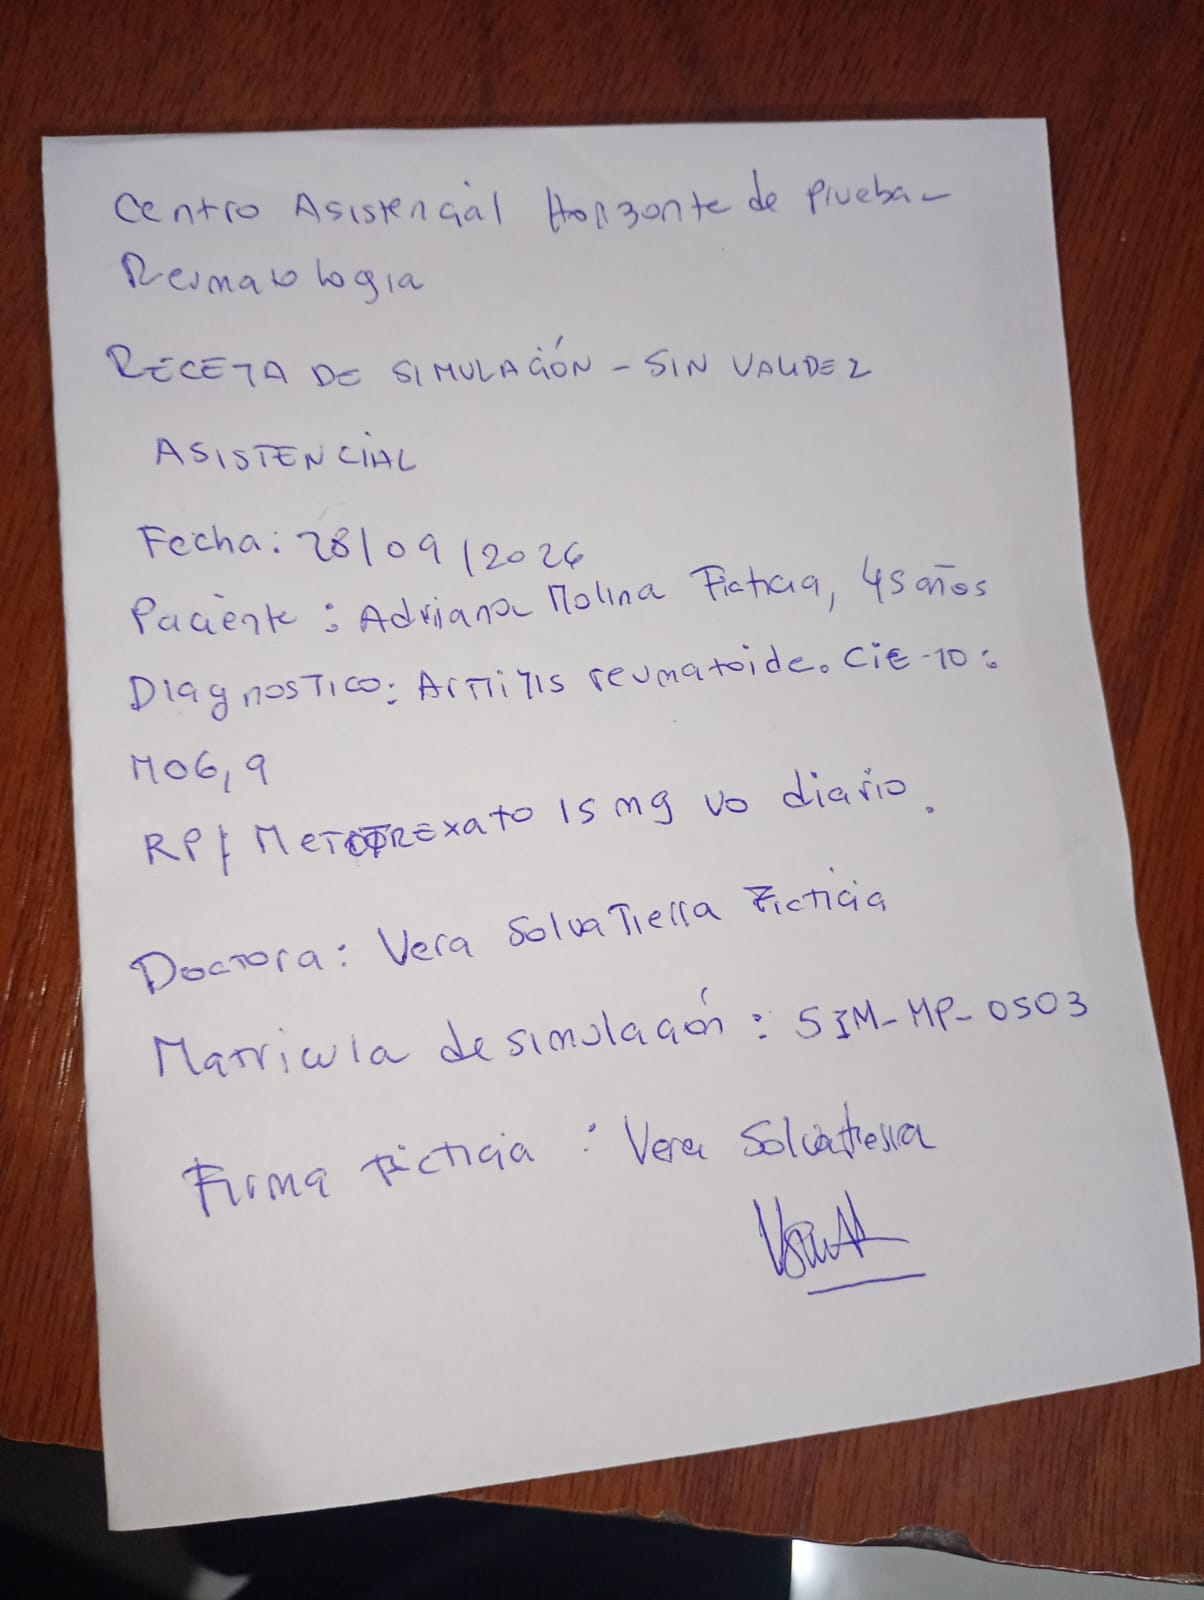
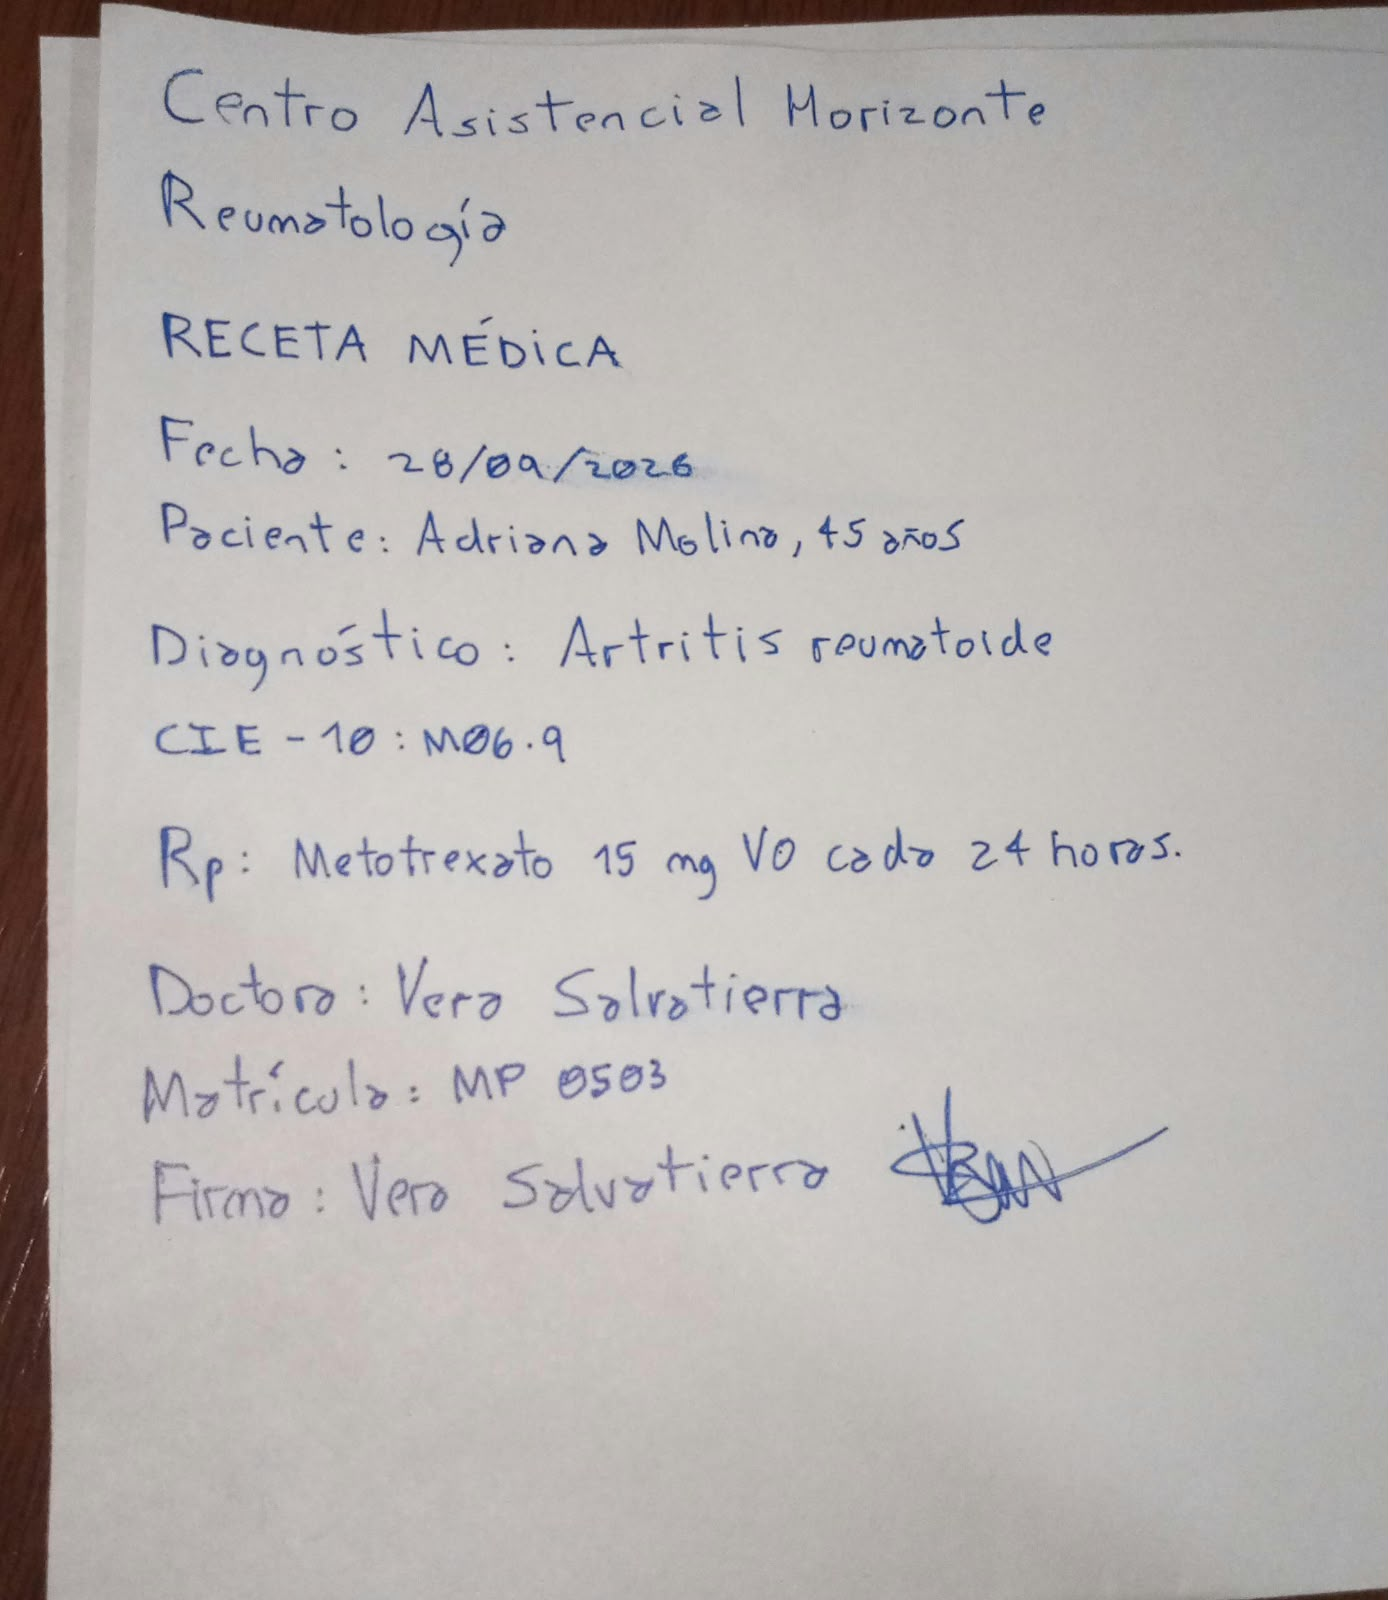
fix(golden): reemplazar foto manuscrita M3 y alinear paciente

diff --git a/docs/m3-procedencia.md b/docs/m3-procedencia.md
@@ -1,0 +1,13 @@
+# M3: procedencia de la imagen
+
+Caso sintético de evaluación; nombres e institución inventados. No representa
+una receta ni una indicación terapéutica real. La frecuencia incorrecta es
+intencional: el resultado esperado sigue siendo ambiguedad.
+
+El 12/10/2026 Carolina proporcionó una nueva fotografía de la hoja manuscrita.
+Se conserva el JPEG original sin retoques. Sustituye la imagen con marcas de
+simulación. M3.json coincide con el paciente Adriana Molina, edad 45 años,
+Metotrexato 15 mg y frecuencia cada 24 horas; no hay duración explícita.
+
+La revisión visual comprueba la correspondencia imagen/etiqueta. Quedan
+pendientes la revisión independiente del equipo y la evaluación con el modelo.
